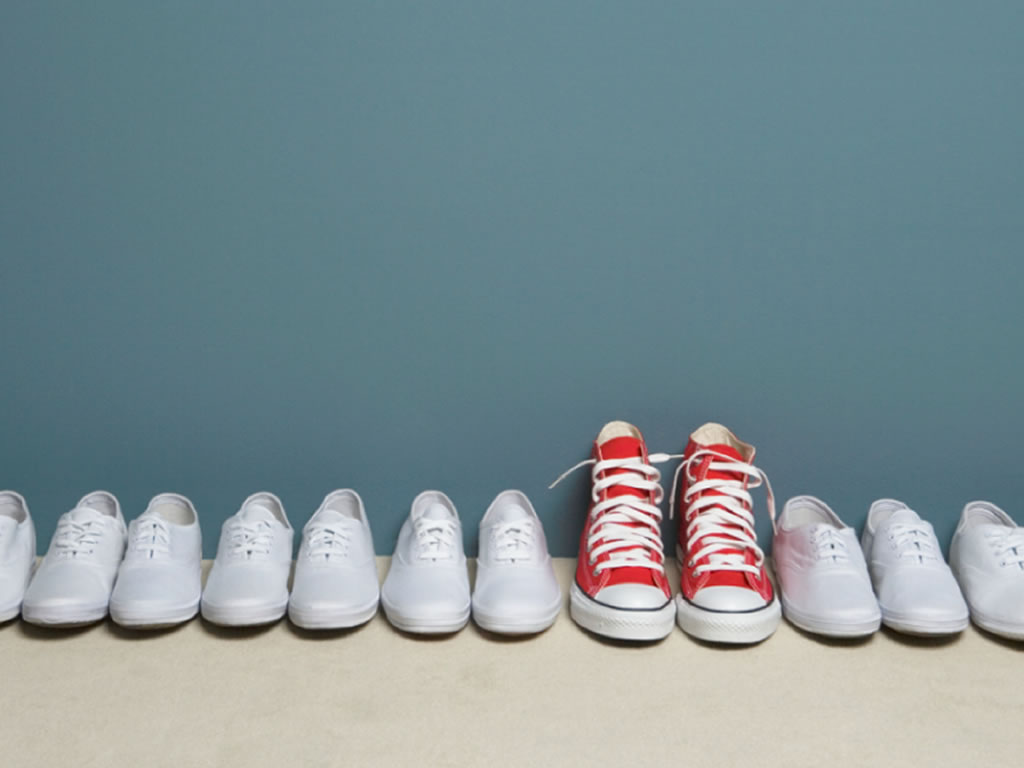
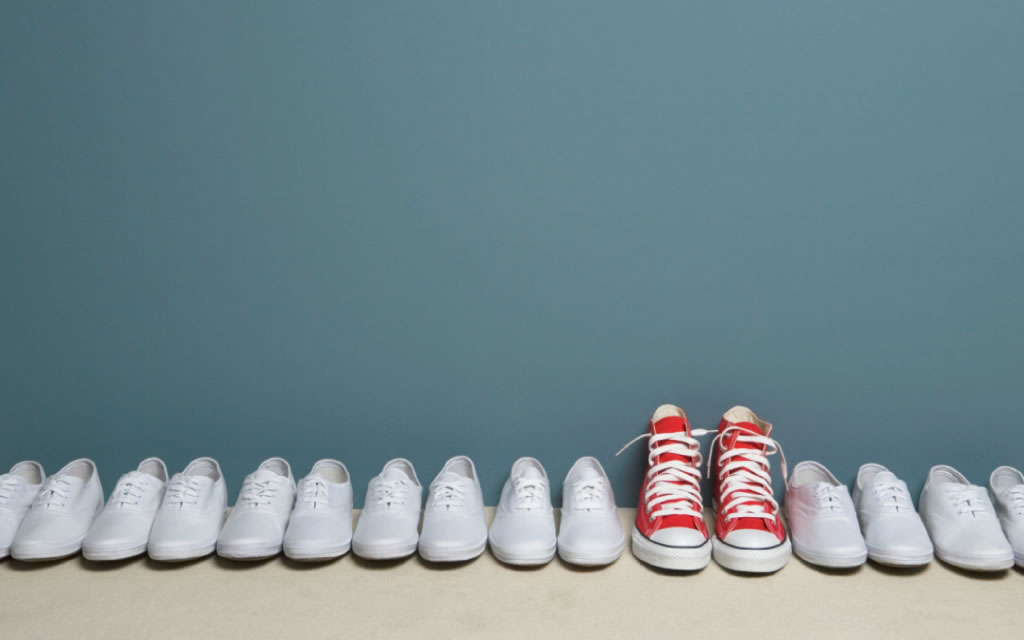
Revert "Fixes images looking streched"
This reverts commit ff0ac8a0024b65d3a715dcb625f4a8b492ed2045.

Changed region(s): [[0.0, 0.5312, 1.0, 0.9062]]

diff --git a/app/assets/stylesheets/bootstrap_and_overrides.css.scss b/app/assets/stylesheets/bootstrap_and_overrides.css.scss
@@ -324,7 +324,7 @@ header > .background-images {
 header > .background-images > img { 
   position: relative;
   width: 19.95%;
-  vertical-align:top !important;
+  height: 100%;
   min-height:100%;
 }
 
